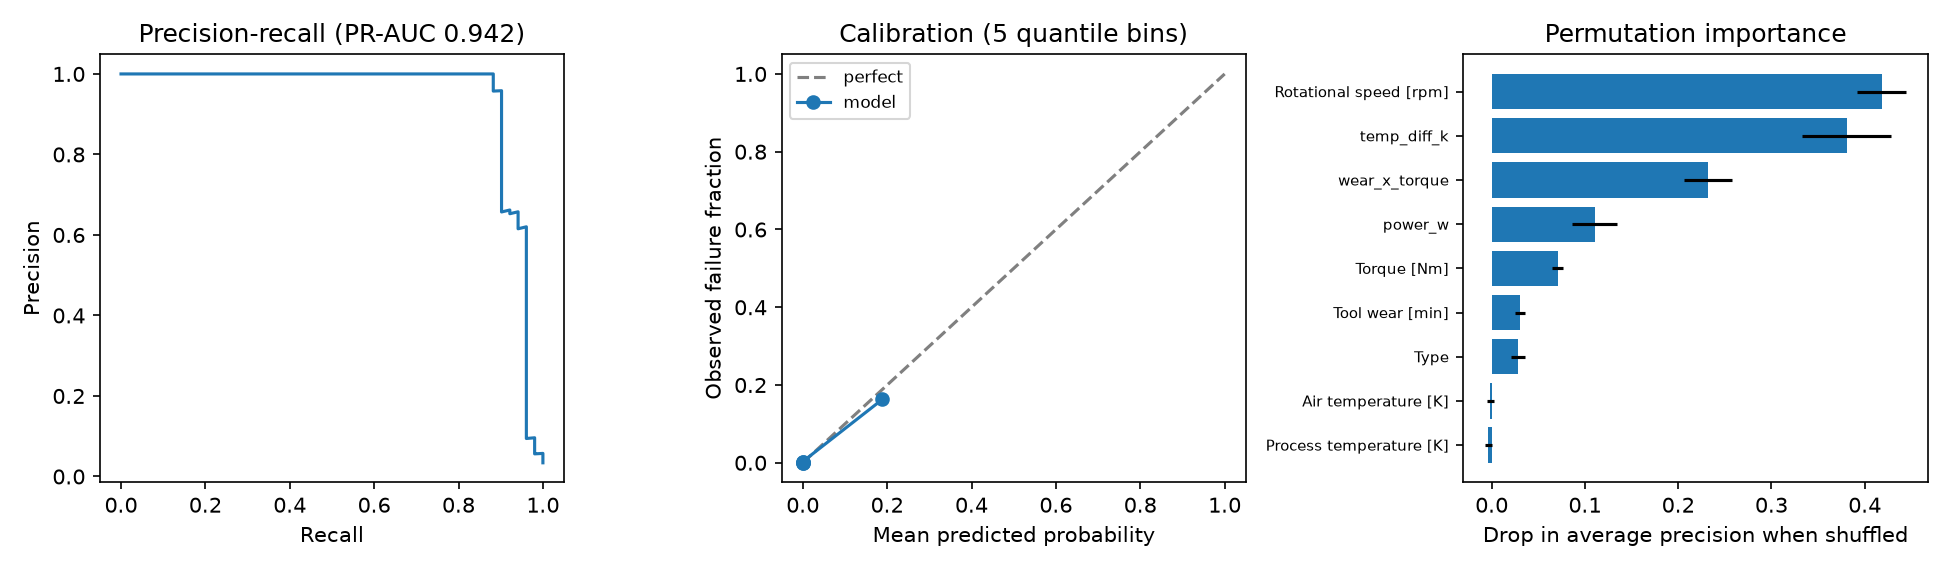
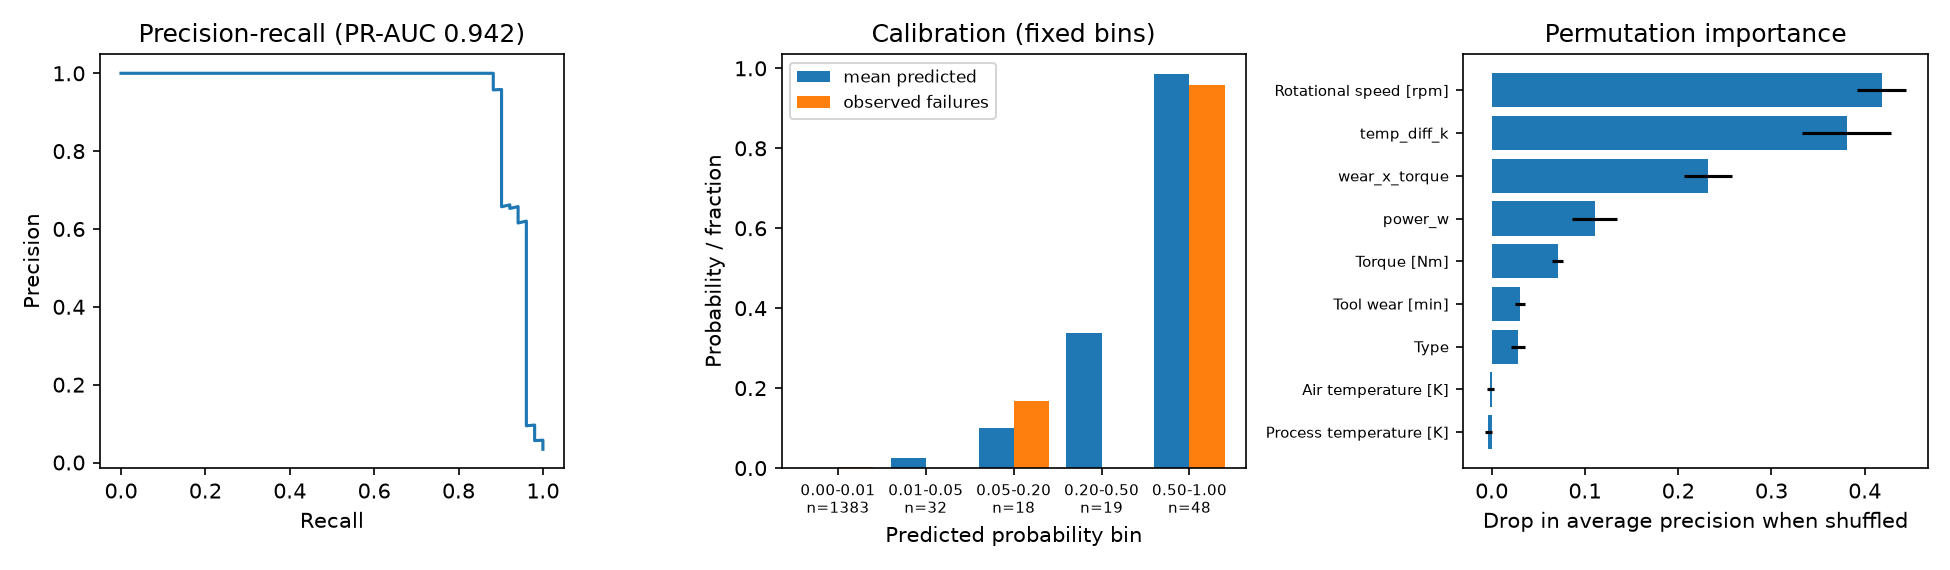
feat: fixed-bin calibration check and diagnostics section

diff --git a/src/ipm/diagnostics.py b/src/ipm/diagnostics.py
@@ -6,11 +6,11 @@ Uses the seed-42 split: precision-recall curve, calibration curve and permutatio
 from __future__ import annotations
 
 import json
+from itertools import pairwise
 from pathlib import Path
 
 import numpy as np
 import pandas as pd
-from sklearn.calibration import calibration_curve
 from sklearn.inspection import permutation_importance
 from sklearn.metrics import average_precision_score, precision_recall_curve
 
@@ -19,6 +19,20 @@ from ipm.data import NUMERIC_FEATURES, SEED, load_raw, split_xy, train_val_test_
 from ipm.features import ENGINEERED, add_engineered
 
 ROOT = Path(__file__).resolve().parents[2]
+CAL_EDGES = (0.0, 0.01, 0.05, 0.2, 0.5, 1.0 + 1e-9)
+
+
+def calibration_bins(y_true, score, edges=CAL_EDGES) -> list[dict]:
+    """Mean predicted probability and observed failure fraction in fixed probability bins."""
+    y_true = np.asarray(y_true)
+    score = np.asarray(score)
+    out = []
+    for lo, hi in pairwise(edges):
+        m = (score >= lo) & (score < hi)
+        if m.any():
+            out.append({"lo": float(lo), "hi": float(min(hi, 1.0)), "n": int(m.sum()),
+                        "mean_predicted": float(score[m].mean()), "fraction_positive": float(y_true[m].mean())})
+    return out
 
 
 def compute(df: pd.DataFrame, seed: int = SEED, n_repeats: int = 10) -> dict:
@@ -30,7 +44,6 @@ def compute(df: pd.DataFrame, seed: int = SEED, n_repeats: int = 10) -> dict:
     model = build_model("hist_gb", numeric, seed=seed).fit(Xtr, ytr)
     score = model.predict_proba(Xte)[:, 1]
     prec, rec, _ = precision_recall_curve(yte, score)
-    frac_pos, mean_pred = calibration_curve(yte, score, n_bins=5, strategy="quantile")
     imp = permutation_importance(
         model, Xte, yte, scoring="average_precision", n_repeats=n_repeats, random_state=seed
     )
@@ -39,7 +52,7 @@ def compute(df: pd.DataFrame, seed: int = SEED, n_repeats: int = 10) -> dict:
         "seed": seed,
         "pr_auc": float(average_precision_score(yte, score)),
         "pr_curve": {"precision": prec.tolist(), "recall": rec.tolist()},
-        "calibration": {"mean_predicted": mean_pred.tolist(), "fraction_positive": frac_pos.tolist()},
+        "calibration": calibration_bins(yte, score),
         "permutation_importance": [
             {"feature": Xte.columns[i], "mean": float(imp.importances_mean[i]), "std": float(imp.importances_std[i])}
             for i in order
@@ -58,9 +71,12 @@ def plot(res: dict, out: Path) -> None:
     ax.plot(res["pr_curve"]["recall"], res["pr_curve"]["precision"])
     ax.set(xlabel="Recall", ylabel="Precision", title=f"Precision-recall (PR-AUC {res['pr_auc']:.3f})")
     ax = axes[1]
-    ax.plot([0, 1], [0, 1], "--", color="gray", label="perfect")
-    ax.plot(res["calibration"]["mean_predicted"], res["calibration"]["fraction_positive"], marker="o", label="model")
-    ax.set(xlabel="Mean predicted probability", ylabel="Observed failure fraction", title="Calibration (5 quantile bins)")
+    cal = res["calibration"]
+    x = np.arange(len(cal))
+    ax.bar(x - 0.2, [c["mean_predicted"] for c in cal], 0.4, label="mean predicted")
+    ax.bar(x + 0.2, [c["fraction_positive"] for c in cal], 0.4, label="observed failures")
+    ax.set_xticks(x, [f"{c['lo']:.2f}-{c['hi']:.2f}\nn={c['n']}" for c in cal], fontsize=7)
+    ax.set(xlabel="Predicted probability bin", ylabel="Probability / fraction", title="Calibration (fixed bins)")
     ax.legend(fontsize=8)
     ax = axes[2]
     imp = res["permutation_importance"][::-1]

diff --git a/tests/test_diagnostics.py b/tests/test_diagnostics.py
@@ -1,4 +1,6 @@
-from ipm.diagnostics import compute, plot
+import numpy as np
+
+from ipm.diagnostics import calibration_bins, compute, plot
 from tests.test_data import make_df
 
 
@@ -8,3 +10,12 @@ def test_diagnostics_compute_and_plot(tmp_path):
     assert len(res["permutation_importance"]) == 9  # 5 sensors + type + 3 engineered
     plot(res, tmp_path / "d.png")
     assert (tmp_path / "d.png").stat().st_size > 1000
+
+
+def test_calibration_bins_counts_and_values():
+    y = np.array([0, 0, 0, 1, 1])
+    s = np.array([0.005, 0.02, 0.3, 0.6, 0.9])
+    bins = calibration_bins(y, s)
+    assert sum(b["n"] for b in bins) == 5
+    top = bins[-1]
+    assert top["n"] == 2 and top["fraction_positive"] == 1.0

diff --git a/README.md b/README.md
@@ -167,6 +167,21 @@ What this shows:
   better.
 - This is a demonstration of the decision framework on a synthetic dataset, not a deployable maintenance policy.
 
+## Model diagnostics (gradient boosting + engineered features, seed-42 split)
+
+From `results/diagnostics.json`; the model is fitted on the training split and evaluated on the test split.
+
+![Diagnostics](reports/figures/diagnostics.png)
+
+- On this split, precision stays at 1.0 up to a recall of about 0.88 and then falls. Remember that this split gave a
+  higher PR-AUC (0.942) than the 5-seed mean (0.879).
+- Permutation importance (drop in average precision): rotational speed 0.418, temperature gap 0.381, wear x torque
+  0.232, power 0.110, torque 0.071; the raw air and process temperatures are about 0. The two largest features match
+  the heat-dissipation and overstrain failure rules of the dataset.
+- Rotational speed, torque and power are strongly related, so permutation importance divides credit among them and
+  should not be read as a causal ranking. Raw temperatures show zero importance because their information is carried
+  by the temperature gap.
+
 ## How to read the classical results
 
 - **No label leakage.** Features are built from the five sensor columns plus product type only. The target,

diff --git a/reports/MODEL_CARD.md b/reports/MODEL_CARD.md
@@ -22,6 +22,7 @@ excluded from the features.
 - The engineered features mirror the rules that generated the labels, so the gain shows the rules can be recovered,
   not that the model generalises to real machines.
 - Each test split has about 50 failures, so precision, recall and thresholds are noisy.
-- Probabilities are from a class-weighted model and are not calibrated (see `reports/figures/diagnostics.png` once generated).
+- Probabilities come from a class-weighted model and were checked only coarsely (see the calibration panel of
+  `reports/figures/diagnostics.png`); with about 50 failures per split the check has low resolution.
 - Hyperparameters were not tuned.
 - Costs used in the decision experiments are assumptions.
